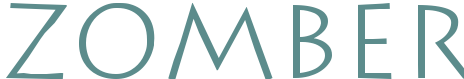
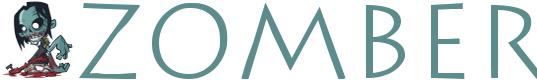
Привел в форму авторизации в более приличный вид

diff --git a/public/stylesheets/layout.css b/public/stylesheets/layout.css
@@ -2,20 +2,20 @@
 
 body {
    font-family: Georgia;
-   padding: 30px 0px 50px;
+   padding: 30px 0px 0px;
 }
 
 #header {
-   margin-bottom: 30px;
-}
-
-#header img {
-   float: left;
+   margin-bottom: 0px;
 }
 
 #header .sixcol.last {
    position: relative;
    height: 80px;
+}
+
+#logo {
+   max-width: 537px;
 }
 
 #menu {
@@ -40,7 +40,7 @@ h3 {
 }
 
 #footer {
-   margin-top: 55px;
+   margin-top: 65px;
 }
 
 #footer img {
@@ -56,6 +56,110 @@ h3 {
 #footer .sixcol.last {
    position: relative;
    height: 80px;
+}
+
+#logo {
+   display: block;
+   border: none;
+   margin: 0 auto;
+}
+
+#messages {
+   height: 40px;
+   padding: 10px;
+   text-align: center;
+}
+
+#messages span {
+   border-radius: 8px;
+   -moz-border-radius: 8px;
+   -webkit-border-radius: 8px;
+   font-size: 16px;
+   padding: 10px;
+   background-color: #e2ebd1;
+   color: #676b60;
+   font-family: Verdana;
+}
+
+#messages span.alert,
+#messages span.error {
+   color: #fff;
+   background-color: #a30000;
+}
+
+/* Large Form */
+form.large {
+   max-width: 800px;
+   margin: 0 auto;
+   box-sizing: border-box;
+   -moz-box-sizing: border-box;
+   -webkit-box-sizing: border-box;
+   border-radius: 8px;
+   -moz-border-radius: 8px;
+   -webkit-border-radius: 8px;
+   /* background-color: #CBC2AE; */
+   background-color: #c1cbae;
+   padding: 8px;
+   font-family: Arial;
+}
+
+form.large .inner {
+   padding: 30px;
+/*   background: #EBE3D1;*/
+   background-color: #e2ebd1;
+   border-radius: 8px;
+   -moz-border-radius: 8px;
+   -webkit-border-radius: 8px;
+}
+
+form.large .inner p:last {
+   padding-bottom: 0px;
+}
+
+form.large h1 {
+   font-weight: bold;
+   font-family: Arial;
+}
+
+form.large p input[type=text],
+   form.large p input[type=password] {
+      border: 2px solid #c1cbae;
+      padding: 15px;
+      width: 100%;
+      font-size: 42px;
+      border-radius: 8px;
+      -moz-border-radius: 8px;
+      -webkit-border-radius: 8px;
+      box-sizing: border-box;
+      -moz-box-sizing: border-box;
+      -webkit-box-sizing: border-box;
+      background-color: #f4fce3;
+   }
+
+form.large p input[type=text]:focus,
+   form.large p input[type=password]:focus {
+      outline: none;
+}
+
+form.large p label {
+   font-size: 24px;
+   text-transform: lowercase;
+   line-height: 1.5em;
+   color: #676b60;
+}
+
+form.large p input[type=submit] {
+   background: #74b0b0 url('../images/zombobutton.png') repeat-x bottom;
+   color: #fff;
+   text-shadow: #2f4f4f 1px 1px 1px;
+   padding: 15px;
+   font-size: 24px;
+   border: 1px solid #355959;
+   border-color: #5fa1a1 #5fa1a1 #4a7d7d;
+   border-radius: 8px;
+   -moz-border-radius: 8px;
+   -webkit-border-radius: 8px;
+   cursor: pointer;
 }
 
 /* Layout for mobile version */

diff --git a/config/routes.rb b/config/routes.rb
@@ -1,17 +1,19 @@
 Hdtv::Application.routes.draw do
   root :to => 'serials#index'
 
-  devise_for :users, :controllers => { :invitations => 'users/invitations' }, :skip => [:sessions, :invitations]
-  
-  as :user do
-    # Registration
-    get 'signup/:invitation_token', :to => "users/invitations#edit",   :as => :accept_user_invitation
-    put 'signup',                   :to => "users/invitations#update", :as => :user_invitation
+  scope :module => "users" do
+    devise_for :users, :controllers => { :invitations => 'invitations' }, :skip => [:sessions, :invitations]
     
-    # Authentication
-    post 'signin',  :to => "devise/sessions#create",  :as => :user_session
-    get  'signin',  :to => "devise/sessions#new",     :as => :new_user_session
-    get  'signout', :to => "devise/sessions#destroy", :as => :destroy_user_session
+    as :user do
+      # Registration
+      get 'signup/:invitation_token', :to => "invitations#edit",   :as => :accept_user_invitation
+      put 'signup',                   :to => "invitations#update", :as => :user_invitation
+      
+      # Authentication
+      post 'signin',  :to => "sessions#create",  :as => :user_session
+      get  'signin',  :to => "sessions#new",     :as => :new_user_session
+      get  'signout', :to => "sessions#destroy", :as => :destroy_user_session
+    end
   end
 
   resources :serials, :only => [:index, :show] do

diff --git a/app/helpers/application_helper.rb b/app/helpers/application_helper.rb
@@ -1,2 +1,13 @@
 module ApplicationHelper
+  def render_logo
+    render :partial => 'shared/logo'
+  end
+
+  def render_footer
+    render :partial => 'shared/footer'
+  end
+
+  def render_messages
+    render :partial => 'shared/messages'
+  end
 end

diff --git a/app/controllers/users/sessions_controller.rb b/app/controllers/users/sessions_controller.rb
@@ -1,0 +1,3 @@
+class Users::SessionsController < Devise::SessionsController
+  layout 'light'
+end
